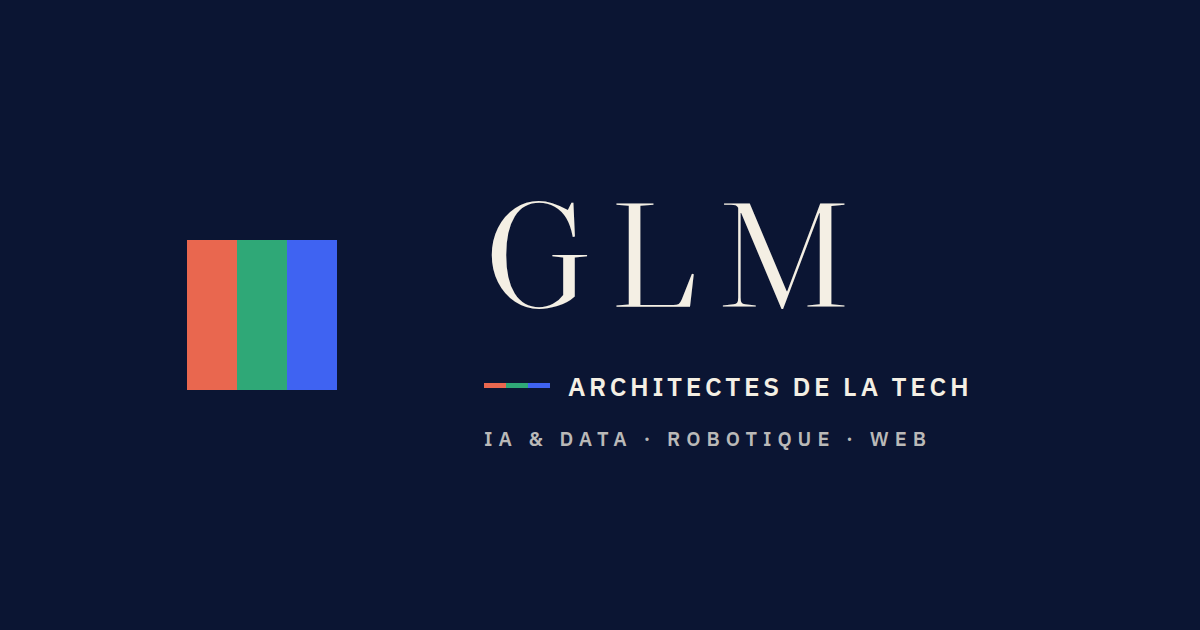
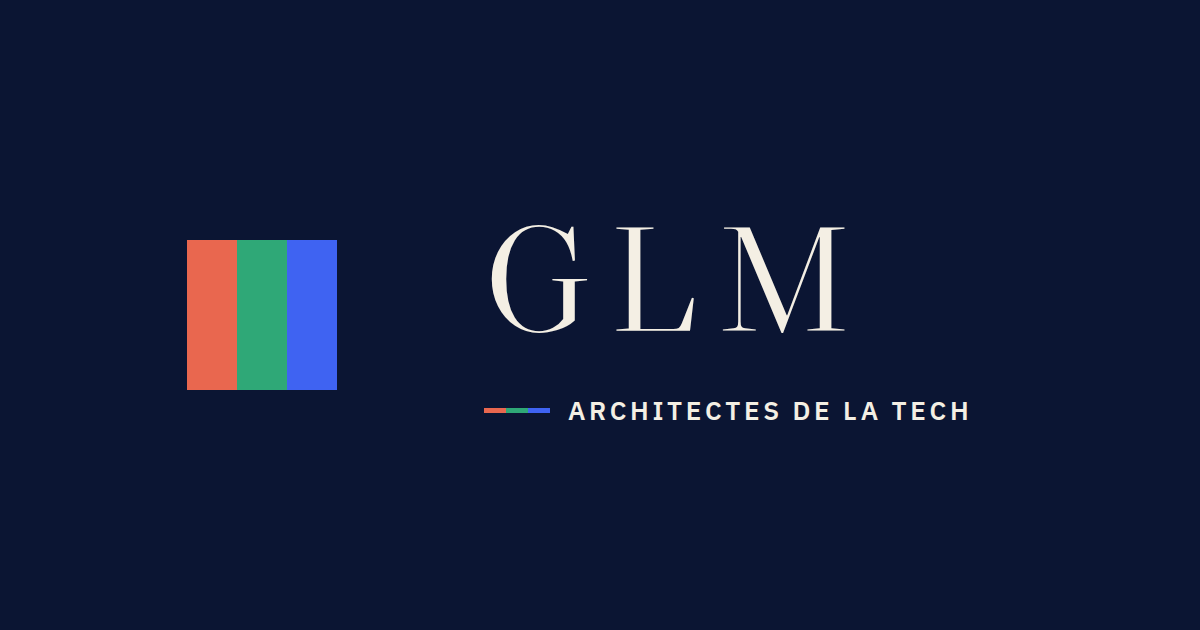
Retire la signature « IA & data · Robotique · Web »
Supprimée sous le logo du hero, dans les données du site et dans l'image
Open Graph (régénérée).

Claude-Session: https://claude.ai/code/session_01NyJxJe5EXggCDnBLd3Vhvi

diff --git a/src/data/site.ts b/src/data/site.ts
@@ -69,7 +69,6 @@ export const siteMeta = {
   titre: 'GLM · Architectes de la tech',
   description:
     'GLM conçoit et construit les systèmes numériques des entreprises : sites web, automatisation et intelligence artificielle, et demain robots autonomes. Une seule équipe, du premier échange à la mise en service.',
-  signature: 'IA & data · Robotique · Web',
   locale: 'fr_FR',
 } as const;
 
